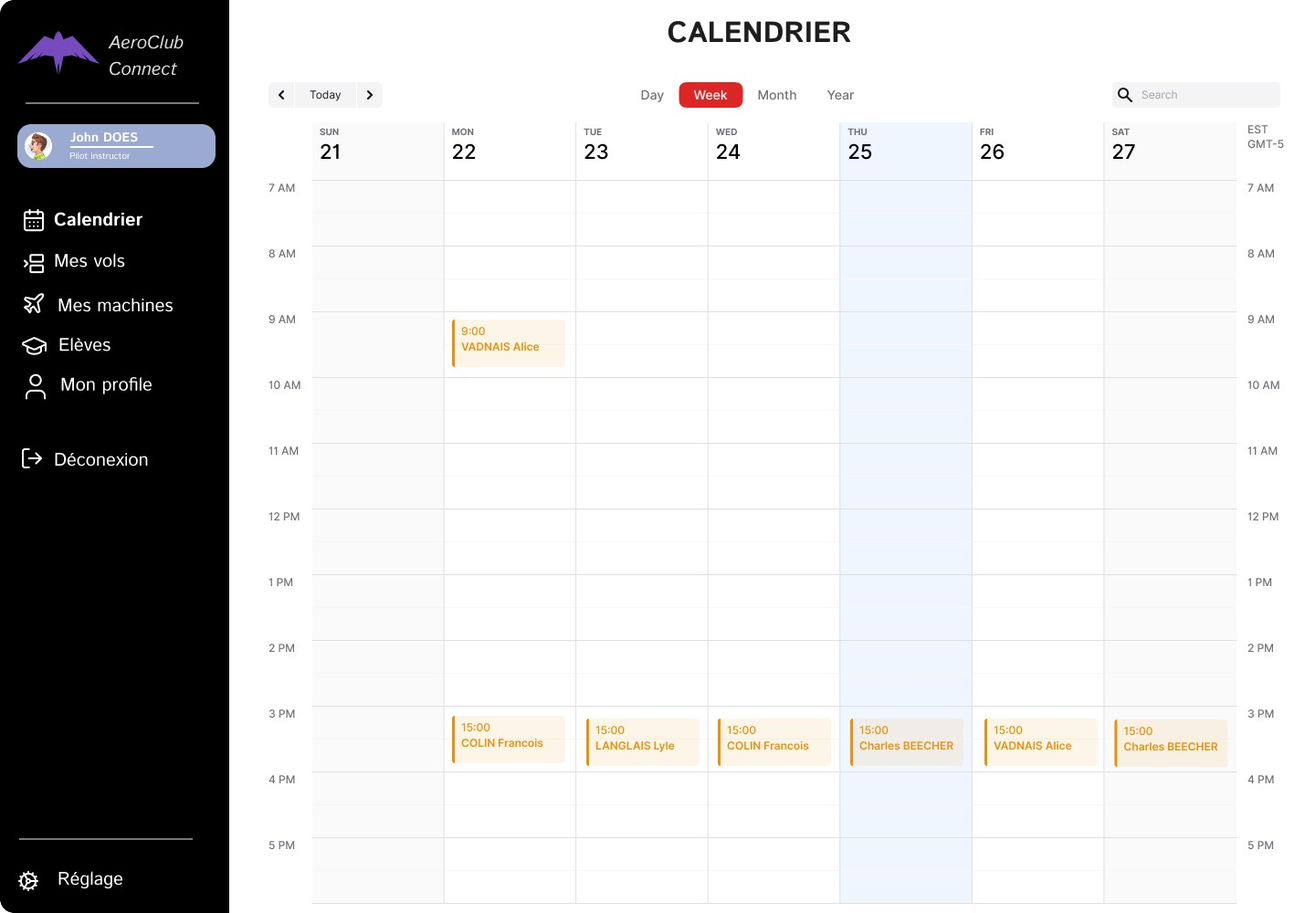
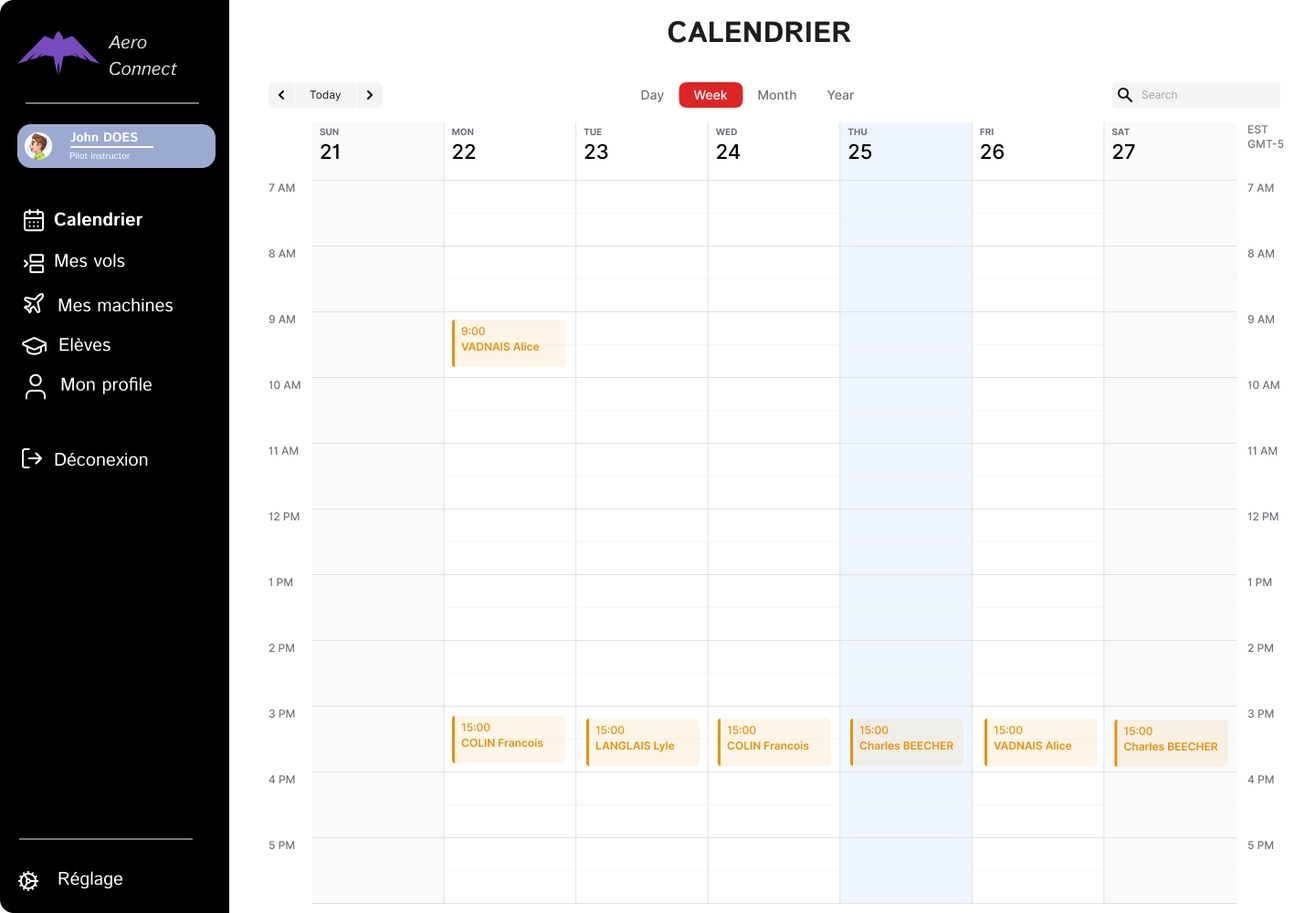
update name

diff --git a/data/logo.tsx b/data/logo.tsx
@@ -4,10 +4,10 @@ export const Logo: React.FC<HTMLChakraProps<'svg'>> = (props) => {
   const color = useColorModeValue('#231f20', '#fff')
   return (
     <chakra.svg
-      height="58" width="183" fill="none" viewBox="0 0 183 58" xmlns="http://www.w3.org/2000/svg"
+      height="58" width="176" fill="none" viewBox="0 0 176 58" xmlns="http://www.w3.org/2000/svg"
     >
 
-      <path d="M99.9219 20C99.5898 20 99.5508 19.7852 99.8047 19.3555L107.324 6.5918C107.559 6.19466 107.819 5.99609 108.105 5.99609H109.473C109.74 5.99609 109.909 6.19466 109.98 6.5918L112.188 19.3555C112.259 19.7852 112.122 20 111.777 20H110.889C110.544 20 110.345 19.8405 110.293 19.5215L109.736 16.2891H103.73L101.826 19.5215C101.637 19.8405 101.367 20 101.016 20H99.9219ZM104.688 14.6875H109.453L108.77 10.7812C108.685 10.3125 108.617 9.80143 108.564 9.24805C108.512 8.68815 108.486 8.16732 108.486 7.68555H108.447C108.33 8.14779 108.148 8.61979 107.9 9.10156C107.653 9.58333 107.344 10.1432 106.973 10.7812L104.688 14.6875ZM113.945 16.1328C113.945 14.1797 114.453 12.6009 115.469 11.3965C116.491 10.1855 117.884 9.58008 119.648 9.58008C120.658 9.58008 121.471 9.86979 122.09 10.4492C122.715 11.0221 123.027 11.6732 123.027 12.4023C123.027 13.3659 122.565 14.0755 121.641 14.5312C120.723 14.987 119.583 15.3516 118.223 15.625L115.82 16.1035C115.781 16.3509 115.762 16.4811 115.762 16.4941C115.762 17.1387 115.938 17.6986 116.289 18.1738C116.641 18.6491 117.256 18.8867 118.135 18.8867C118.883 18.8867 119.486 18.75 119.941 18.4766C120.397 18.2031 120.706 17.9557 120.869 17.7344C121.097 17.4284 121.302 17.36 121.484 17.5293L122.061 18.0273C122.184 18.138 122.165 18.3203 122.002 18.5742C121.852 18.8086 121.449 19.1341 120.791 19.5508C120.133 19.9609 119.17 20.166 117.9 20.166C116.514 20.166 115.508 19.7656 114.883 18.9648C114.258 18.1576 113.945 17.2135 113.945 16.1328ZM115.869 14.7461L117.871 14.3555C118.783 14.1797 119.583 13.9388 120.273 13.6328C120.964 13.3203 121.309 12.8841 121.309 12.3242C121.309 11.8815 121.107 11.5267 120.703 11.2598C120.306 10.9863 119.847 10.8496 119.326 10.8496C118.538 10.8496 117.835 11.1491 117.217 11.748C116.605 12.347 116.156 13.3464 115.869 14.7461ZM124.561 20C124.268 20 124.154 19.8535 124.219 19.5605L126.387 10.1855C126.452 9.89258 126.631 9.74609 126.924 9.74609H127.744C128.037 9.74609 128.151 9.89258 128.086 10.1855L127.725 11.748H127.764C128.232 11.0124 128.711 10.4688 129.199 10.1172C129.694 9.75911 130.277 9.58008 130.947 9.58008C131.331 9.58008 131.602 9.61589 131.758 9.6875C131.882 9.73958 131.914 9.83724 131.855 9.98047L131.533 10.7812C131.488 10.8984 131.393 10.944 131.25 10.918C131.029 10.8724 130.804 10.8496 130.576 10.8496C129.867 10.8496 129.147 11.3118 128.418 12.2363C127.689 13.1543 127.21 14.1016 126.982 15.0781L125.938 19.5605C125.872 19.8535 125.693 20 125.4 20H124.561ZM131.523 16.0742C131.523 14.3555 132.054 12.8451 133.115 11.543C134.183 10.2344 135.579 9.58008 137.305 9.58008C138.828 9.58008 139.893 10.0195 140.498 10.8984C141.104 11.7708 141.406 12.6953 141.406 13.6719C141.406 15.3906 140.872 16.9043 139.805 18.2129C138.743 19.515 137.35 20.166 135.625 20.166C134.102 20.166 133.037 19.7298 132.432 18.8574C131.826 17.9785 131.523 17.0508 131.523 16.0742ZM133.34 16.2207C133.34 17.0345 133.529 17.6855 133.906 18.1738C134.29 18.6556 134.906 18.8965 135.752 18.8965C136.768 18.8965 137.66 18.4375 138.428 17.5195C139.202 16.5951 139.59 15.2637 139.59 13.5254C139.59 12.7116 139.398 12.0638 139.014 11.582C138.636 11.0938 138.024 10.8496 137.178 10.8496C136.162 10.8496 135.267 11.3118 134.492 12.2363C133.724 13.1543 133.34 14.4824 133.34 16.2207ZM143.145 14.3359C143.145 11.7643 143.828 9.68424 145.195 8.0957C146.569 6.50065 148.483 5.70312 150.938 5.70312C152.135 5.70312 153.105 5.91146 153.848 6.32812C154.59 6.74479 155.114 7.29818 155.42 7.98828C155.57 8.33333 155.495 8.59375 155.195 8.76953L154.434 9.21875C154.258 9.32292 154.089 9.23177 153.926 8.94531C153.73 8.59375 153.376 8.2194 152.861 7.82227C152.347 7.42513 151.65 7.22656 150.771 7.22656C149.144 7.22656 147.799 7.82227 146.738 9.01367C145.677 10.2051 145.146 12.054 145.146 14.5605C145.146 15.7454 145.459 16.7448 146.084 17.5586C146.709 18.3659 147.77 18.7695 149.268 18.7695C150.153 18.7695 150.902 18.5384 151.514 18.0762C152.132 17.6074 152.611 17.1387 152.949 16.6699C153.223 16.2923 153.477 16.1784 153.711 16.3281L154.59 16.8945C154.805 17.0312 154.779 17.2917 154.512 17.6758C153.997 18.4245 153.304 19.0495 152.432 19.5508C151.559 20.0456 150.417 20.293 149.004 20.293C147.038 20.293 145.57 19.7331 144.6 18.6133C143.63 17.487 143.145 16.0612 143.145 14.3359ZM156.416 20C156.123 20 156.009 19.8535 156.074 19.5605L158.896 7.37305C158.923 7.24284 158.981 7.11914 159.072 7.00195L160.049 5.76172C160.225 5.53385 160.352 5.41992 160.43 5.41992H160.771C160.967 5.41992 161.038 5.53385 160.986 5.76172L157.793 19.5605C157.728 19.8535 157.549 20 157.256 20H156.416ZM161.572 16.4258L163.018 10.1855C163.083 9.89258 163.262 9.74609 163.555 9.74609H164.395C164.688 9.74609 164.801 9.89258 164.736 10.1855L163.408 15.957C163.115 17.2396 163.125 18.0501 163.438 18.3887C163.75 18.7272 164.248 18.8965 164.932 18.8965C165.889 18.8965 166.637 18.5189 167.178 17.7637C167.718 17.002 168.102 16.1328 168.33 15.1562L169.482 10.1855C169.548 9.89258 169.727 9.74609 170.02 9.74609H170.859C171.152 9.74609 171.266 9.89258 171.201 10.1855L169.033 19.5605C168.968 19.8535 168.789 20 168.496 20H167.676C167.383 20 167.269 19.8535 167.334 19.5605L167.607 18.3887H167.568C167.184 18.8639 166.68 19.2806 166.055 19.6387C165.436 19.9902 164.753 20.166 164.004 20.166C162.962 20.166 162.23 19.834 161.807 19.1699C161.383 18.4993 161.305 17.5846 161.572 16.4258ZM171.846 20C171.553 20 171.439 19.8535 171.504 19.5605L174.629 6.02539C174.694 5.73242 174.873 5.58594 175.166 5.58594H176.006C176.299 5.58594 176.413 5.73242 176.348 6.02539L175.254 10.7617C175.208 10.9505 175.156 11.1491 175.098 11.3574H175.117C175.404 10.8431 175.85 10.4199 176.455 10.0879C177.061 9.74935 177.624 9.58008 178.145 9.58008C179.382 9.58008 180.241 9.96094 180.723 10.7227C181.211 11.4779 181.455 12.3861 181.455 13.4473C181.455 15.1074 180.931 16.6439 179.883 18.0566C178.835 19.4629 177.601 20.166 176.182 20.166C175.459 20.166 174.896 20.0586 174.492 19.8438C174.089 19.6224 173.721 19.2904 173.389 18.8477H173.369L173.145 19.5605C173.053 19.8535 172.894 20 172.666 20H171.846ZM173.779 17.168C173.844 17.819 174.056 18.2715 174.414 18.5254C174.772 18.7728 175.316 18.8965 176.045 18.8965C177.035 18.8965 177.881 18.3464 178.584 17.2461C179.287 16.1393 179.639 14.8503 179.639 13.3789C179.639 12.7018 179.492 12.1126 179.199 11.6113C178.906 11.1035 178.392 10.8496 177.656 10.8496C177.018 10.8496 176.367 11.2337 175.703 12.002C175.046 12.7637 174.616 13.5742 174.414 14.4336L173.779 17.168ZM101.074 43.3359C101.074 40.7643 101.758 38.6842 103.125 37.0957C104.499 35.5007 106.413 34.7031 108.867 34.7031C110.065 34.7031 111.035 34.9115 111.777 35.3281C112.52 35.7448 113.044 36.2982 113.35 36.9883C113.499 37.3333 113.424 37.5938 113.125 37.7695L112.363 38.2188C112.188 38.3229 112.018 38.2318 111.855 37.9453C111.66 37.5938 111.305 37.2194 110.791 36.8223C110.277 36.4251 109.58 36.2266 108.701 36.2266C107.074 36.2266 105.729 36.8223 104.668 38.0137C103.607 39.2051 103.076 41.054 103.076 43.5605C103.076 44.7454 103.389 45.7448 104.014 46.5586C104.639 47.3659 105.7 47.7695 107.197 47.7695C108.083 47.7695 108.831 47.5384 109.443 47.0762C110.062 46.6074 110.54 46.1387 110.879 45.6699C111.152 45.2923 111.406 45.1784 111.641 45.3281L112.52 45.8945C112.734 46.0312 112.708 46.2917 112.441 46.6758C111.927 47.4245 111.234 48.0495 110.361 48.5508C109.489 49.0456 108.346 49.293 106.934 49.293C104.967 49.293 103.499 48.7331 102.529 47.6133C101.559 46.487 101.074 45.0612 101.074 43.3359ZM114.258 45.0742C114.258 43.3555 114.788 41.8451 115.85 40.543C116.917 39.2344 118.314 38.5801 120.039 38.5801C121.562 38.5801 122.627 39.0195 123.232 39.8984C123.838 40.7708 124.141 41.6953 124.141 42.6719C124.141 44.3906 123.607 45.9043 122.539 47.2129C121.478 48.515 120.085 49.166 118.359 49.166C116.836 49.166 115.771 48.7298 115.166 47.8574C114.561 46.9785 114.258 46.0508 114.258 45.0742ZM116.074 45.2207C116.074 46.0345 116.263 46.6855 116.641 47.1738C117.025 47.6556 117.64 47.8965 118.486 47.8965C119.502 47.8965 120.394 47.4375 121.162 46.5195C121.937 45.5951 122.324 44.2637 122.324 42.5254C122.324 41.7116 122.132 41.0638 121.748 40.582C121.37 40.0938 120.758 39.8496 119.912 39.8496C118.896 39.8496 118.001 40.3118 117.227 41.2363C116.458 42.1543 116.074 43.4824 116.074 45.2207ZM125.557 49C125.264 49 125.15 48.8535 125.215 48.5605L127.383 39.1855C127.448 38.8926 127.627 38.7461 127.92 38.7461H128.74C129.033 38.7461 129.147 38.8926 129.082 39.1855L128.818 40.3574H128.857C129.242 39.8822 129.74 39.4688 130.352 39.1172C130.97 38.7591 131.67 38.5801 132.451 38.5801C133.558 38.5801 134.313 38.9154 134.717 39.5859C135.12 40.25 135.189 41.1615 134.922 42.3203L133.477 48.5605C133.411 48.8535 133.232 49 132.939 49H132.1C131.807 49 131.693 48.8535 131.758 48.5605L133.096 42.7891C133.389 41.513 133.379 40.7057 133.066 40.3672C132.754 40.0221 132.24 39.8496 131.523 39.8496C130.742 39.8496 130.029 40.2305 129.385 40.9922C128.747 41.7474 128.314 42.6133 128.086 43.5898L126.934 48.5605C126.868 48.8535 126.689 49 126.396 49H125.557ZM136.572 49C136.279 49 136.165 48.8535 136.23 48.5605L138.398 39.1855C138.464 38.8926 138.643 38.7461 138.936 38.7461H139.756C140.049 38.7461 140.163 38.8926 140.098 39.1855L139.834 40.3574H139.873C140.257 39.8822 140.755 39.4688 141.367 39.1172C141.986 38.7591 142.686 38.5801 143.467 38.5801C144.574 38.5801 145.329 38.9154 145.732 39.5859C146.136 40.25 146.204 41.1615 145.938 42.3203L144.492 48.5605C144.427 48.8535 144.248 49 143.955 49H143.115C142.822 49 142.708 48.8535 142.773 48.5605L144.111 42.7891C144.404 41.513 144.395 40.7057 144.082 40.3672C143.77 40.0221 143.255 39.8496 142.539 39.8496C141.758 39.8496 141.045 40.2305 140.4 40.9922C139.762 41.7474 139.329 42.6133 139.102 43.5898L137.949 48.5605C137.884 48.8535 137.705 49 137.412 49H136.572ZM147.5 45.1328C147.5 43.1797 148.008 41.6009 149.023 40.3965C150.046 39.1855 151.439 38.5801 153.203 38.5801C154.212 38.5801 155.026 38.8698 155.645 39.4492C156.27 40.0221 156.582 40.6732 156.582 41.4023C156.582 42.3659 156.12 43.0755 155.195 43.5312C154.277 43.987 153.138 44.3516 151.777 44.625L149.375 45.1035C149.336 45.3509 149.316 45.4811 149.316 45.4941C149.316 46.1387 149.492 46.6986 149.844 47.1738C150.195 47.6491 150.811 47.8867 151.689 47.8867C152.438 47.8867 153.04 47.75 153.496 47.4766C153.952 47.2031 154.261 46.9557 154.424 46.7344C154.652 46.4284 154.857 46.36 155.039 46.5293L155.615 47.0273C155.739 47.138 155.719 47.3203 155.557 47.5742C155.407 47.8086 155.003 48.1341 154.346 48.5508C153.688 48.9609 152.725 49.166 151.455 49.166C150.068 49.166 149.062 48.7656 148.438 47.9648C147.812 47.1576 147.5 46.2135 147.5 45.1328ZM149.424 43.7461L151.426 43.3555C152.337 43.1797 153.138 42.9388 153.828 42.6328C154.518 42.3203 154.863 41.8841 154.863 41.3242C154.863 40.8815 154.661 40.5267 154.258 40.2598C153.861 39.9863 153.402 39.8496 152.881 39.8496C152.093 39.8496 151.39 40.1491 150.771 40.748C150.16 41.347 149.71 42.3464 149.424 43.7461ZM158.027 45.0742C158.027 43.349 158.558 41.8353 159.619 40.5332C160.687 39.2311 162.083 38.5801 163.809 38.5801C164.863 38.5801 165.615 38.7656 166.064 39.1367C166.514 39.5013 166.839 39.9049 167.041 40.3477C167.145 40.582 167.1 40.7513 166.904 40.8555L166.26 41.1973C166.038 41.3145 165.866 41.2331 165.742 40.9531C165.651 40.7448 165.443 40.5104 165.117 40.25C164.792 39.9831 164.313 39.8496 163.682 39.8496C162.666 39.8496 161.771 40.3053 160.996 41.2168C160.228 42.1283 159.844 43.4629 159.844 45.2207C159.844 46.015 160.033 46.6595 160.41 47.1543C160.794 47.6491 161.41 47.8965 162.256 47.8965C162.926 47.8965 163.477 47.724 163.906 47.3789C164.336 47.0273 164.642 46.7148 164.824 46.4414C164.974 46.2135 165.146 46.168 165.342 46.3047L165.957 46.7539C166.146 46.8906 166.162 47.0697 166.006 47.291C165.817 47.5514 165.404 47.929 164.766 48.4238C164.128 48.9186 163.249 49.166 162.129 49.166C160.605 49.166 159.541 48.7331 158.936 47.8672C158.33 46.9948 158.027 46.0638 158.027 45.0742ZM169.434 40.0352C169.141 40.0352 169.02 39.9212 169.072 39.6934L169.209 39.0879C169.261 38.86 169.434 38.7461 169.727 38.7461H170.879L171.084 37.8672C171.117 37.7435 171.178 37.6198 171.27 37.4961L172.236 36.2559C172.412 36.028 172.539 35.9141 172.617 35.9141H172.959C173.154 35.9141 173.226 36.028 173.174 36.2559L172.598 38.7461H174.678C174.971 38.7461 175.091 38.86 175.039 39.0879L174.902 39.6934C174.85 39.9212 174.678 40.0352 174.385 40.0352H172.305L170.869 46.2559C170.713 46.9395 170.713 47.3854 170.869 47.5938C171.032 47.7956 171.227 47.8965 171.455 47.8965C171.755 47.8965 172.064 47.8411 172.383 47.7305C172.702 47.6133 172.917 47.5189 173.027 47.4473C173.171 47.3561 173.265 47.3757 173.311 47.5059L173.564 48.209C173.604 48.3262 173.568 48.4206 173.457 48.4922C173.19 48.6615 172.799 48.8177 172.285 48.9609C171.777 49.0977 171.234 49.166 170.654 49.166C170.081 49.166 169.629 48.9219 169.297 48.4336C168.971 47.9453 168.913 47.2552 169.121 46.3633L170.586 40.0352H169.434Z" fill="#D9D9D9" />
+      <path d="M99.9219 20C99.5898 20 99.5508 19.7852 99.8047 19.3555L107.324 6.5918C107.559 6.19466 107.819 5.99609 108.105 5.99609H109.473C109.74 5.99609 109.909 6.19466 109.98 6.5918L112.188 19.3555C112.259 19.7852 112.122 20 111.777 20H110.889C110.544 20 110.345 19.8405 110.293 19.5215L109.736 16.2891H103.73L101.826 19.5215C101.637 19.8405 101.367 20 101.016 20H99.9219ZM104.688 14.6875H109.453L108.77 10.7812C108.685 10.3125 108.617 9.80143 108.564 9.24805C108.512 8.68815 108.486 8.16732 108.486 7.68555H108.447C108.33 8.14779 108.148 8.61979 107.9 9.10156C107.653 9.58333 107.344 10.1432 106.973 10.7812L104.688 14.6875ZM113.945 16.1328C113.945 14.1797 114.453 12.6009 115.469 11.3965C116.491 10.1855 117.884 9.58008 119.648 9.58008C120.658 9.58008 121.471 9.86979 122.09 10.4492C122.715 11.0221 123.027 11.6732 123.027 12.4023C123.027 13.3659 122.565 14.0755 121.641 14.5312C120.723 14.987 119.583 15.3516 118.223 15.625L115.82 16.1035C115.781 16.3509 115.762 16.4811 115.762 16.4941C115.762 17.1387 115.938 17.6986 116.289 18.1738C116.641 18.6491 117.256 18.8867 118.135 18.8867C118.883 18.8867 119.486 18.75 119.941 18.4766C120.397 18.2031 120.706 17.9557 120.869 17.7344C121.097 17.4284 121.302 17.36 121.484 17.5293L122.061 18.0273C122.184 18.138 122.165 18.3203 122.002 18.5742C121.852 18.8086 121.449 19.1341 120.791 19.5508C120.133 19.9609 119.17 20.166 117.9 20.166C116.514 20.166 115.508 19.7656 114.883 18.9648C114.258 18.1576 113.945 17.2135 113.945 16.1328ZM115.869 14.7461L117.871 14.3555C118.783 14.1797 119.583 13.9388 120.273 13.6328C120.964 13.3203 121.309 12.8841 121.309 12.3242C121.309 11.8815 121.107 11.5267 120.703 11.2598C120.306 10.9863 119.847 10.8496 119.326 10.8496C118.538 10.8496 117.835 11.1491 117.217 11.748C116.605 12.347 116.156 13.3464 115.869 14.7461ZM124.561 20C124.268 20 124.154 19.8535 124.219 19.5605L126.387 10.1855C126.452 9.89258 126.631 9.74609 126.924 9.74609H127.744C128.037 9.74609 128.151 9.89258 128.086 10.1855L127.725 11.748H127.764C128.232 11.0124 128.711 10.4688 129.199 10.1172C129.694 9.75911 130.277 9.58008 130.947 9.58008C131.331 9.58008 131.602 9.61589 131.758 9.6875C131.882 9.73958 131.914 9.83724 131.855 9.98047L131.533 10.7812C131.488 10.8984 131.393 10.944 131.25 10.918C131.029 10.8724 130.804 10.8496 130.576 10.8496C129.867 10.8496 129.147 11.3118 128.418 12.2363C127.689 13.1543 127.21 14.1016 126.982 15.0781L125.938 19.5605C125.872 19.8535 125.693 20 125.4 20H124.561ZM131.523 16.0742C131.523 14.3555 132.054 12.8451 133.115 11.543C134.183 10.2344 135.579 9.58008 137.305 9.58008C138.828 9.58008 139.893 10.0195 140.498 10.8984C141.104 11.7708 141.406 12.6953 141.406 13.6719C141.406 15.3906 140.872 16.9043 139.805 18.2129C138.743 19.515 137.35 20.166 135.625 20.166C134.102 20.166 133.037 19.7298 132.432 18.8574C131.826 17.9785 131.523 17.0508 131.523 16.0742ZM133.34 16.2207C133.34 17.0345 133.529 17.6855 133.906 18.1738C134.29 18.6556 134.906 18.8965 135.752 18.8965C136.768 18.8965 137.66 18.4375 138.428 17.5195C139.202 16.5951 139.59 15.2637 139.59 13.5254C139.59 12.7116 139.398 12.0638 139.014 11.582C138.636 11.0938 138.024 10.8496 137.178 10.8496C136.162 10.8496 135.267 11.3118 134.492 12.2363C133.724 13.1543 133.34 14.4824 133.34 16.2207ZM101.074 43.3359C101.074 40.7643 101.758 38.6842 103.125 37.0957C104.499 35.5007 106.413 34.7031 108.867 34.7031C110.065 34.7031 111.035 34.9115 111.777 35.3281C112.52 35.7448 113.044 36.2982 113.35 36.9883C113.499 37.3333 113.424 37.5938 113.125 37.7695L112.363 38.2188C112.188 38.3229 112.018 38.2318 111.855 37.9453C111.66 37.5938 111.305 37.2194 110.791 36.8223C110.277 36.4251 109.58 36.2266 108.701 36.2266C107.074 36.2266 105.729 36.8223 104.668 38.0137C103.607 39.2051 103.076 41.054 103.076 43.5605C103.076 44.7454 103.389 45.7448 104.014 46.5586C104.639 47.3659 105.7 47.7695 107.197 47.7695C108.083 47.7695 108.831 47.5384 109.443 47.0762C110.062 46.6074 110.54 46.1387 110.879 45.6699C111.152 45.2923 111.406 45.1784 111.641 45.3281L112.52 45.8945C112.734 46.0312 112.708 46.2917 112.441 46.6758C111.927 47.4245 111.234 48.0495 110.361 48.5508C109.489 49.0456 108.346 49.293 106.934 49.293C104.967 49.293 103.499 48.7331 102.529 47.6133C101.559 46.487 101.074 45.0612 101.074 43.3359ZM114.258 45.0742C114.258 43.3555 114.788 41.8451 115.85 40.543C116.917 39.2344 118.314 38.5801 120.039 38.5801C121.562 38.5801 122.627 39.0195 123.232 39.8984C123.838 40.7708 124.141 41.6953 124.141 42.6719C124.141 44.3906 123.607 45.9043 122.539 47.2129C121.478 48.515 120.085 49.166 118.359 49.166C116.836 49.166 115.771 48.7298 115.166 47.8574C114.561 46.9785 114.258 46.0508 114.258 45.0742ZM116.074 45.2207C116.074 46.0345 116.263 46.6855 116.641 47.1738C117.025 47.6556 117.64 47.8965 118.486 47.8965C119.502 47.8965 120.394 47.4375 121.162 46.5195C121.937 45.5951 122.324 44.2637 122.324 42.5254C122.324 41.7116 122.132 41.0638 121.748 40.582C121.37 40.0938 120.758 39.8496 119.912 39.8496C118.896 39.8496 118.001 40.3118 117.227 41.2363C116.458 42.1543 116.074 43.4824 116.074 45.2207ZM125.557 49C125.264 49 125.15 48.8535 125.215 48.5605L127.383 39.1855C127.448 38.8926 127.627 38.7461 127.92 38.7461H128.74C129.033 38.7461 129.147 38.8926 129.082 39.1855L128.818 40.3574H128.857C129.242 39.8822 129.74 39.4688 130.352 39.1172C130.97 38.7591 131.67 38.5801 132.451 38.5801C133.558 38.5801 134.313 38.9154 134.717 39.5859C135.12 40.25 135.189 41.1615 134.922 42.3203L133.477 48.5605C133.411 48.8535 133.232 49 132.939 49H132.1C131.807 49 131.693 48.8535 131.758 48.5605L133.096 42.7891C133.389 41.513 133.379 40.7057 133.066 40.3672C132.754 40.0221 132.24 39.8496 131.523 39.8496C130.742 39.8496 130.029 40.2305 129.385 40.9922C128.747 41.7474 128.314 42.6133 128.086 43.5898L126.934 48.5605C126.868 48.8535 126.689 49 126.396 49H125.557ZM136.572 49C136.279 49 136.165 48.8535 136.23 48.5605L138.398 39.1855C138.464 38.8926 138.643 38.7461 138.936 38.7461H139.756C140.049 38.7461 140.163 38.8926 140.098 39.1855L139.834 40.3574H139.873C140.257 39.8822 140.755 39.4688 141.367 39.1172C141.986 38.7591 142.686 38.5801 143.467 38.5801C144.574 38.5801 145.329 38.9154 145.732 39.5859C146.136 40.25 146.204 41.1615 145.938 42.3203L144.492 48.5605C144.427 48.8535 144.248 49 143.955 49H143.115C142.822 49 142.708 48.8535 142.773 48.5605L144.111 42.7891C144.404 41.513 144.395 40.7057 144.082 40.3672C143.77 40.0221 143.255 39.8496 142.539 39.8496C141.758 39.8496 141.045 40.2305 140.4 40.9922C139.762 41.7474 139.329 42.6133 139.102 43.5898L137.949 48.5605C137.884 48.8535 137.705 49 137.412 49H136.572ZM147.5 45.1328C147.5 43.1797 148.008 41.6009 149.023 40.3965C150.046 39.1855 151.439 38.5801 153.203 38.5801C154.212 38.5801 155.026 38.8698 155.645 39.4492C156.27 40.0221 156.582 40.6732 156.582 41.4023C156.582 42.3659 156.12 43.0755 155.195 43.5312C154.277 43.987 153.138 44.3516 151.777 44.625L149.375 45.1035C149.336 45.3509 149.316 45.4811 149.316 45.4941C149.316 46.1387 149.492 46.6986 149.844 47.1738C150.195 47.6491 150.811 47.8867 151.689 47.8867C152.438 47.8867 153.04 47.75 153.496 47.4766C153.952 47.2031 154.261 46.9557 154.424 46.7344C154.652 46.4284 154.857 46.36 155.039 46.5293L155.615 47.0273C155.739 47.138 155.719 47.3203 155.557 47.5742C155.407 47.8086 155.003 48.1341 154.346 48.5508C153.688 48.9609 152.725 49.166 151.455 49.166C150.068 49.166 149.062 48.7656 148.438 47.9648C147.812 47.1576 147.5 46.2135 147.5 45.1328ZM149.424 43.7461L151.426 43.3555C152.337 43.1797 153.138 42.9388 153.828 42.6328C154.518 42.3203 154.863 41.8841 154.863 41.3242C154.863 40.8815 154.661 40.5267 154.258 40.2598C153.861 39.9863 153.402 39.8496 152.881 39.8496C152.093 39.8496 151.39 40.1491 150.771 40.748C150.16 41.347 149.71 42.3464 149.424 43.7461ZM158.027 45.0742C158.027 43.349 158.558 41.8353 159.619 40.5332C160.687 39.2311 162.083 38.5801 163.809 38.5801C164.863 38.5801 165.615 38.7656 166.064 39.1367C166.514 39.5013 166.839 39.9049 167.041 40.3477C167.145 40.582 167.1 40.7513 166.904 40.8555L166.26 41.1973C166.038 41.3145 165.866 41.2331 165.742 40.9531C165.651 40.7448 165.443 40.5104 165.117 40.25C164.792 39.9831 164.313 39.8496 163.682 39.8496C162.666 39.8496 161.771 40.3053 160.996 41.2168C160.228 42.1283 159.844 43.4629 159.844 45.2207C159.844 46.015 160.033 46.6595 160.41 47.1543C160.794 47.6491 161.41 47.8965 162.256 47.8965C162.926 47.8965 163.477 47.724 163.906 47.3789C164.336 47.0273 164.642 46.7148 164.824 46.4414C164.974 46.2135 165.146 46.168 165.342 46.3047L165.957 46.7539C166.146 46.8906 166.162 47.0697 166.006 47.291C165.817 47.5514 165.404 47.929 164.766 48.4238C164.128 48.9186 163.249 49.166 162.129 49.166C160.605 49.166 159.541 48.7331 158.936 47.8672C158.33 46.9948 158.027 46.0638 158.027 45.0742ZM169.434 40.0352C169.141 40.0352 169.02 39.9212 169.072 39.6934L169.209 39.0879C169.261 38.86 169.434 38.7461 169.727 38.7461H170.879L171.084 37.8672C171.117 37.7435 171.178 37.6198 171.27 37.4961L172.236 36.2559C172.412 36.028 172.539 35.9141 172.617 35.9141H172.959C173.154 35.9141 173.226 36.028 173.174 36.2559L172.598 38.7461H174.678C174.971 38.7461 175.091 38.86 175.039 39.0879L174.902 39.6934C174.85 39.9212 174.678 40.0352 174.385 40.0352H172.305L170.869 46.2559C170.713 46.9395 170.713 47.3854 170.869 47.5938C171.032 47.7956 171.227 47.8965 171.455 47.8965C171.755 47.8965 172.064 47.8411 172.383 47.7305C172.702 47.6133 172.917 47.5189 173.027 47.4473C173.171 47.3561 173.265 47.3757 173.311 47.5059L173.564 48.209C173.604 48.3262 173.568 48.4206 173.457 48.4922C173.19 48.6615 172.799 48.8177 172.285 48.9609C171.777 49.0977 171.234 49.166 170.654 49.166C170.081 49.166 169.629 48.9219 169.297 48.4336C168.971 47.9453 168.913 47.2552 169.121 46.3633L170.586 40.0352H169.434Z" fill="#D9D9D9" />
       <path d="M29.661 6.33898L0 36.9322L10.1695 33.7966L19.661 25.0678L13.6441 32.6949L21.4407 30.322L27.7119 24.5169L23.7288 29.5593L30.4237 27.5254L39.7458 28.8814C41.0654 36.9243 42.1681 41.3611 44.4068 49.2203C43.7971 41.6729 44.0999 39.1834 45.0424 35.8305C46.1006 39.3463 46.1946 42.3734 45.678 49.2203C47.965 41.5793 48.9908 37.1297 50.339 28.8814L59.5763 27.5254L66.3559 29.5593L62.2881 24.3898L68.5593 30.322L76.4407 32.6949L70.339 24.983L79.9153 33.7966L90 36.8475L60.4237 6.33898L50.1695 10.2373C48.791 4.96336 47.6752 2.92317 45.0424 1C42.4119 2.96633 41.2939 5.00061 39.9153 10.2373L29.661 6.33898Z" fill="#774BBE" />
 
     </chakra.svg>

diff --git a/pages/index.tsx b/pages/index.tsx
@@ -90,7 +90,7 @@ const Home: NextPage = () => {
 
         {/* <TestimonialsSection /> */}
 
-        {/* <PricingSection /> */}
+        <PricingSection />
 
         <WaitlistSection /> {/* Ajoutez la section Waitlist ici */}
 
@@ -148,7 +148,7 @@ const HeroSection: React.FC = () => {
               <Box overflow="hidden" height="100%">
                 <Image
                   src="/static/screenshots/list.png"
-                  layout="fixed"
+                  // layout="fixed"
                   width={1200}
                   height={762}
                   alt="Screenshot of a ListPage in Saas UI Pro"
@@ -214,7 +214,7 @@ const HighlightsSection = () => {
       <HighlightsItem colSpan={[1, null, 2]} title="Participez à notre développement et soyez récompensé !">
         <VStack alignItems="flex-start" spacing="8">
           <Text color="muted" fontSize="xl">
-          Nous sommes en pleine phase de développement de notre application dédiée aux éro-club. À ce stade, nous n’avons pas encore de produit final à proposer, mais votre avis est essentiel pour créer une solution qui répond à vos besoins. En participant à notre enquête, vous contribuez à façonner notre outil et, en remerciement, vous recevrez des récompenses exclusives une fois l’application lancée !<br />  Cliquez sur le lien ci-dessous pour répondre à notre questionnaire et partager vos idées
+            Nous sommes en pleine phase de développement de notre application dédiée aux éro-club. À ce stade, nous n’avons pas encore de produit final à proposer, mais votre avis est essentiel pour créer une solution qui répond à vos besoins. En participant à notre enquête, vous contribuez à façonner notre outil et, en remerciement, vous recevrez des récompenses exclusives une fois l’application lancée !<br />  Cliquez sur le lien ci-dessous pour répondre à notre questionnaire et partager vos idées
           </Text>
 
           <Flex
@@ -234,13 +234,13 @@ const HighlightsSection = () => {
                 Lien de notre questionnaire
               </Text>{" "}
             </Box>
-            
+
           </Flex>
         </VStack>
       </HighlightsItem>
       <HighlightsItem title="Notre vision pour les aéro-club">
         <Text color="muted" fontSize="lg">
-        Découvrez notre vision d&apos;une plateforme qui simplifie la gestion des aéro-club. Notre objectif est de créer un outil intuitif qui facilite les réservations, la planification et les paiements, tout en optimisant le temps des instructeurs et des membres. Rejoignez-nous dans cette aventure et aidez-nous à façonner l&apos;avenir des aéro-club !
+          Découvrez notre vision d&apos;une plateforme qui simplifie la gestion des aéro-club. Notre objectif est de créer un outil intuitif qui facilite les réservations, la planification et les paiements, tout en optimisant le temps des instructeurs et des membres. Rejoignez-nous dans cette aventure et aidez-nous à façonner l&apos;avenir des aéro-club !
         </Text>
       </HighlightsItem>
       <HighlightsTestimonialItem
@@ -256,7 +256,7 @@ const HighlightsSection = () => {
         title=" Pourquoi notre projet est unique"
       >
         <Text color="muted" fontSize="lg">
-        Ce qui distingue notre application des autres, c’est notre approche unique : un partenariat solide entre des experts en développement web et un aéroclub expérimenté. Cette collaboration nous permet de comprendre en profondeur les besoins des aéro-club et de créer une solution sur mesure. Avec une équipe engagée sur tous les aspects, de la technologie à l’expérience terrain
+          Ce qui distingue notre application des autres, c’est notre approche unique : un partenariat solide entre des experts en développement web et un aéroclub expérimenté. Cette collaboration nous permet de comprendre en profondeur les besoins des aéro-club et de créer une solution sur mesure. Avec une équipe engagée sur tous les aspects, de la technologie à l’expérience terrain
         </Text>
         {/* <Wrap mt="8">
           {[
@@ -305,7 +305,7 @@ const FeaturesSection = () => {
           textAlign="left"
           as="p"
         >
-          Fonctionnalités Clés de 
+          Fonctionnalités Clés de
           <Br /> Notre Application pour les Aéroclubs
         </Heading>
       }
@@ -456,56 +456,56 @@ const WaitlistSection: React.FC = () => {
 
   return (
     <Box py="20" id="waitlist">
-    <Container maxW="container.xl">
-      <HStack spacing={10} align="flex-start" justify="space-between">
-        <Stack spacing={4} maxW="50%">
-          <Heading as="h2" size="xl" textAlign="left">
-            Rejoignez notre Waitlist
-          </Heading>
-          <Text fontSize="lg" color="gray.400" textAlign="left">
-            Inscrivez-vous pour être parmi les premiers informés lorsque notre application sera prête. La waitlist vous donnera un accès exclusif à des mises à jour et des offres spéciales.
-          </Text>
-        </Stack>
-        <Box
-          color={"#1D2025"}
-          as="form"
-          onSubmit={handleSubmit}
-          bg={useColorModeValue("white", "gray.800")}
-          p="8"
-          rounded="md"
-          shadow="md"
-          maxW="md"
-          borderRadius="md"
-          border="1px"
-          w="50%"
-        >
-          <FormControl id="email" isRequired>
-            <FormLabel color="white">Email</FormLabel>
-            <Input
-              borderRadius="md"
-              border="1px"
-              type="email"
-              value={email}
-              onChange={(e) => setEmail(e.target.value)}
-              placeholder="Entrez votre adresse e-mail"
-            />
-            <FormHelperText>
-              Ce n&apos;es pas une newsletter, c&apos;est une liste d&apos;inscription pour être informé lorsque nous aurons des mises à jour importantes.
-            </FormHelperText>
-          </FormControl>
-          <Button
-            mt="4"
-            colorScheme="primary"
-            type="submit"
-            isLoading={loading}
+      <Container maxW="container.xl">
+        <HStack spacing={10} align="flex-start" justify="space-between">
+          <Stack spacing={4} maxW="50%">
+            <Heading as="h2" size="xl" textAlign="left">
+              Rejoignez notre Waitlist
+            </Heading>
+            <Text fontSize="lg" color="gray.400" textAlign="left">
+              Inscrivez-vous pour être parmi les premiers informés lorsque notre application sera prête. La waitlist vous donnera un accès exclusif à des mises à jour et des offres spéciales.
+            </Text>
+          </Stack>
+          <Box
+            color={"#1D2025"}
+            as="form"
+            onSubmit={handleSubmit}
+            bg={useColorModeValue("white", "gray.800")}
+            p="8"
+            rounded="md"
+            shadow="md"
+            maxW="md"
+            borderRadius="md"
+            border="1px"
+            w="50%"
           >
-            Inscrivez-vous
-          </Button>
-        </Box>
-      </HStack>
-    </Container>
-  </Box>
-);
+            <FormControl id="email" isRequired>
+              <FormLabel color="white">Email</FormLabel>
+              <Input
+                borderRadius="md"
+                border="1px"
+                type="email"
+                value={email}
+                onChange={(e) => setEmail(e.target.value)}
+                placeholder="Entrez votre adresse e-mail"
+              />
+              <FormHelperText>
+                Ce n&apos;es pas une newsletter, c&apos;est une liste d&apos;inscription pour être informé lorsque nous aurons des mises à jour importantes.
+              </FormHelperText>
+            </FormControl>
+            <Button
+              mt="4"
+              colorScheme="primary"
+              type="submit"
+              isLoading={loading}
+            >
+              Inscrivez-vous
+            </Button>
+          </Box>
+        </HStack>
+      </Container>
+    </Box>
+  );
 };
 
 
